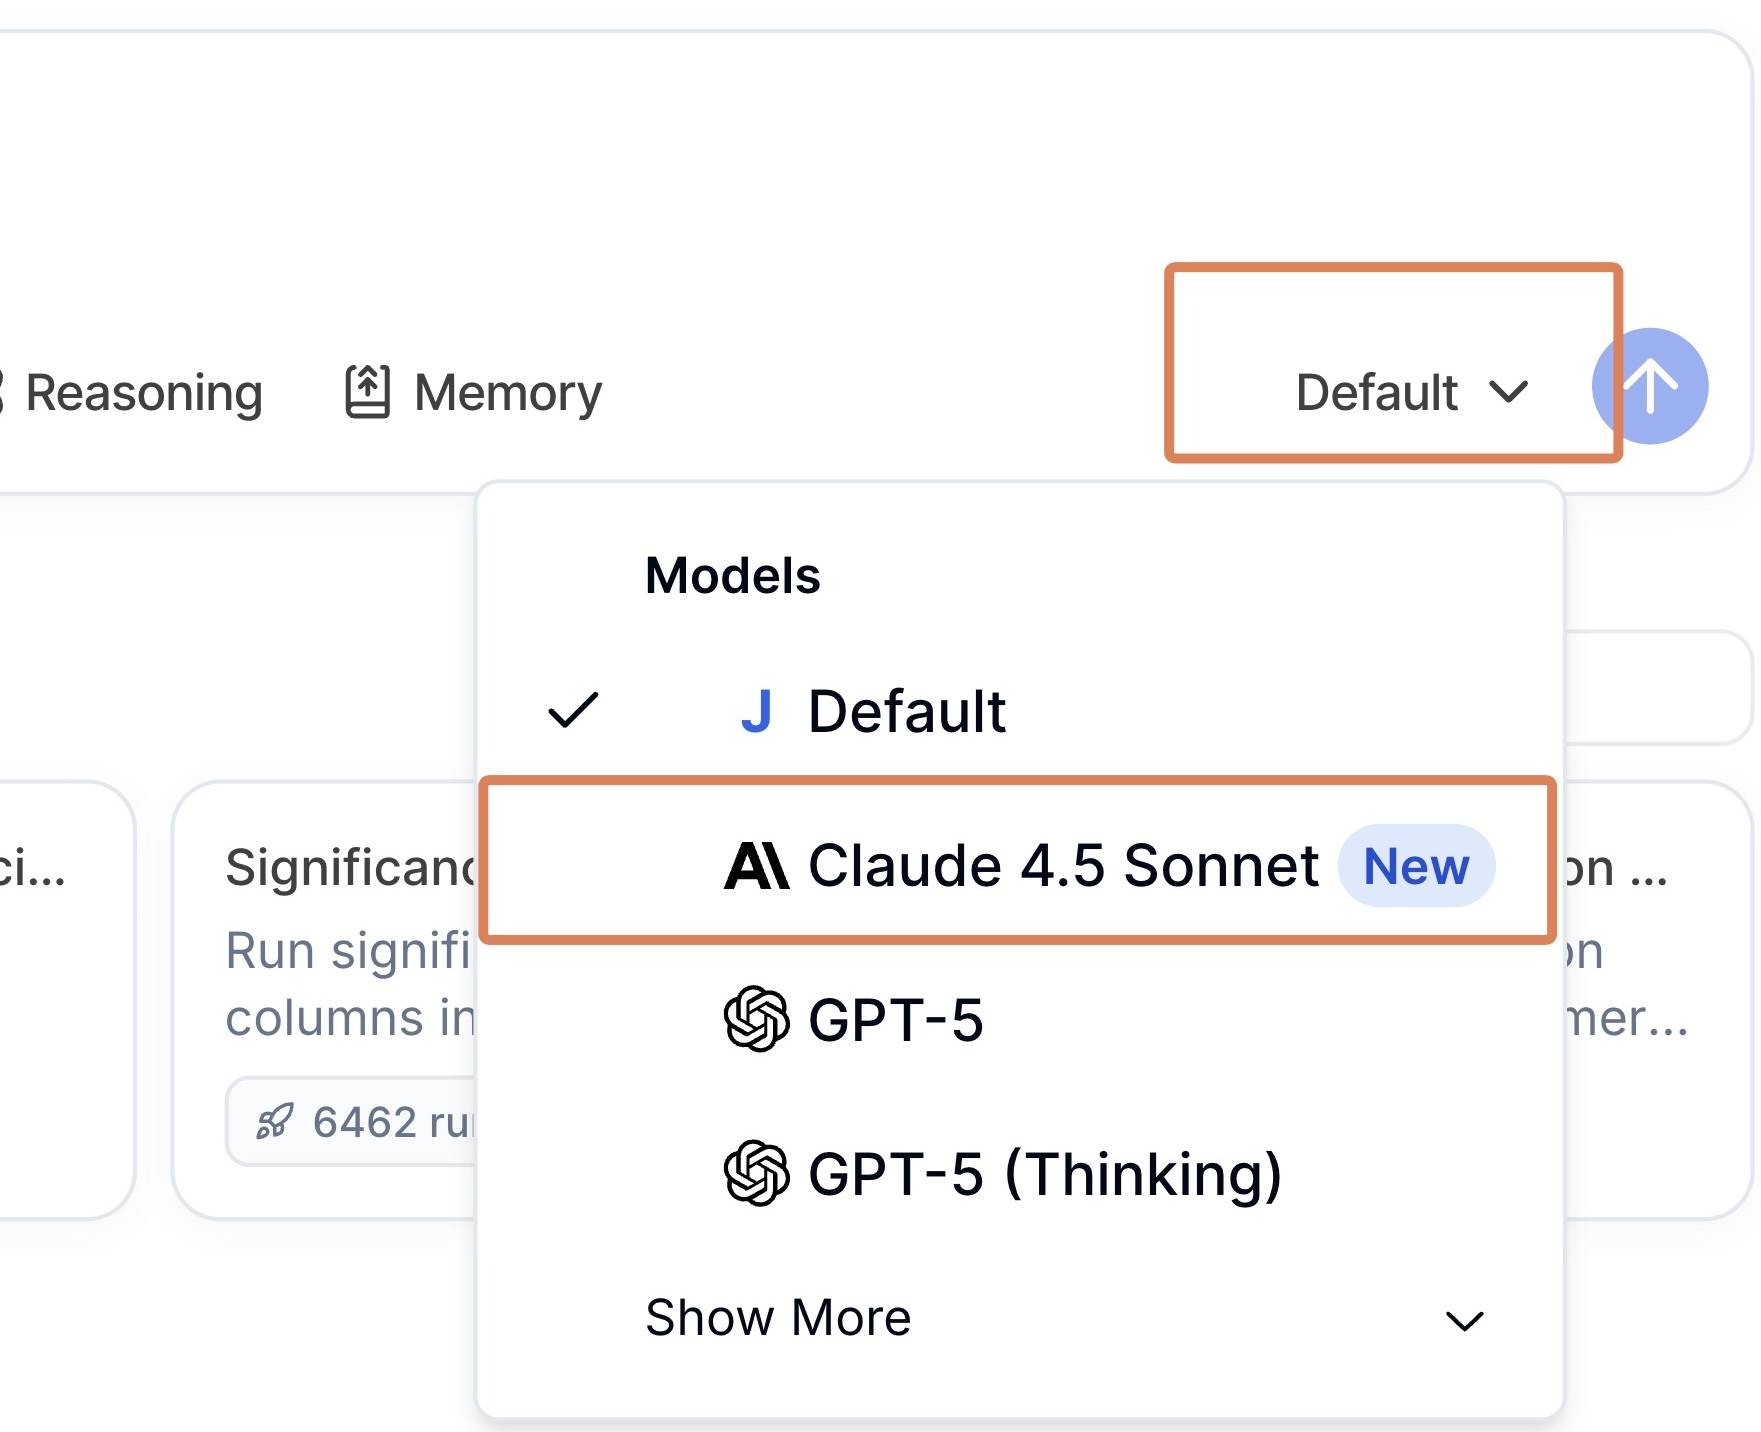
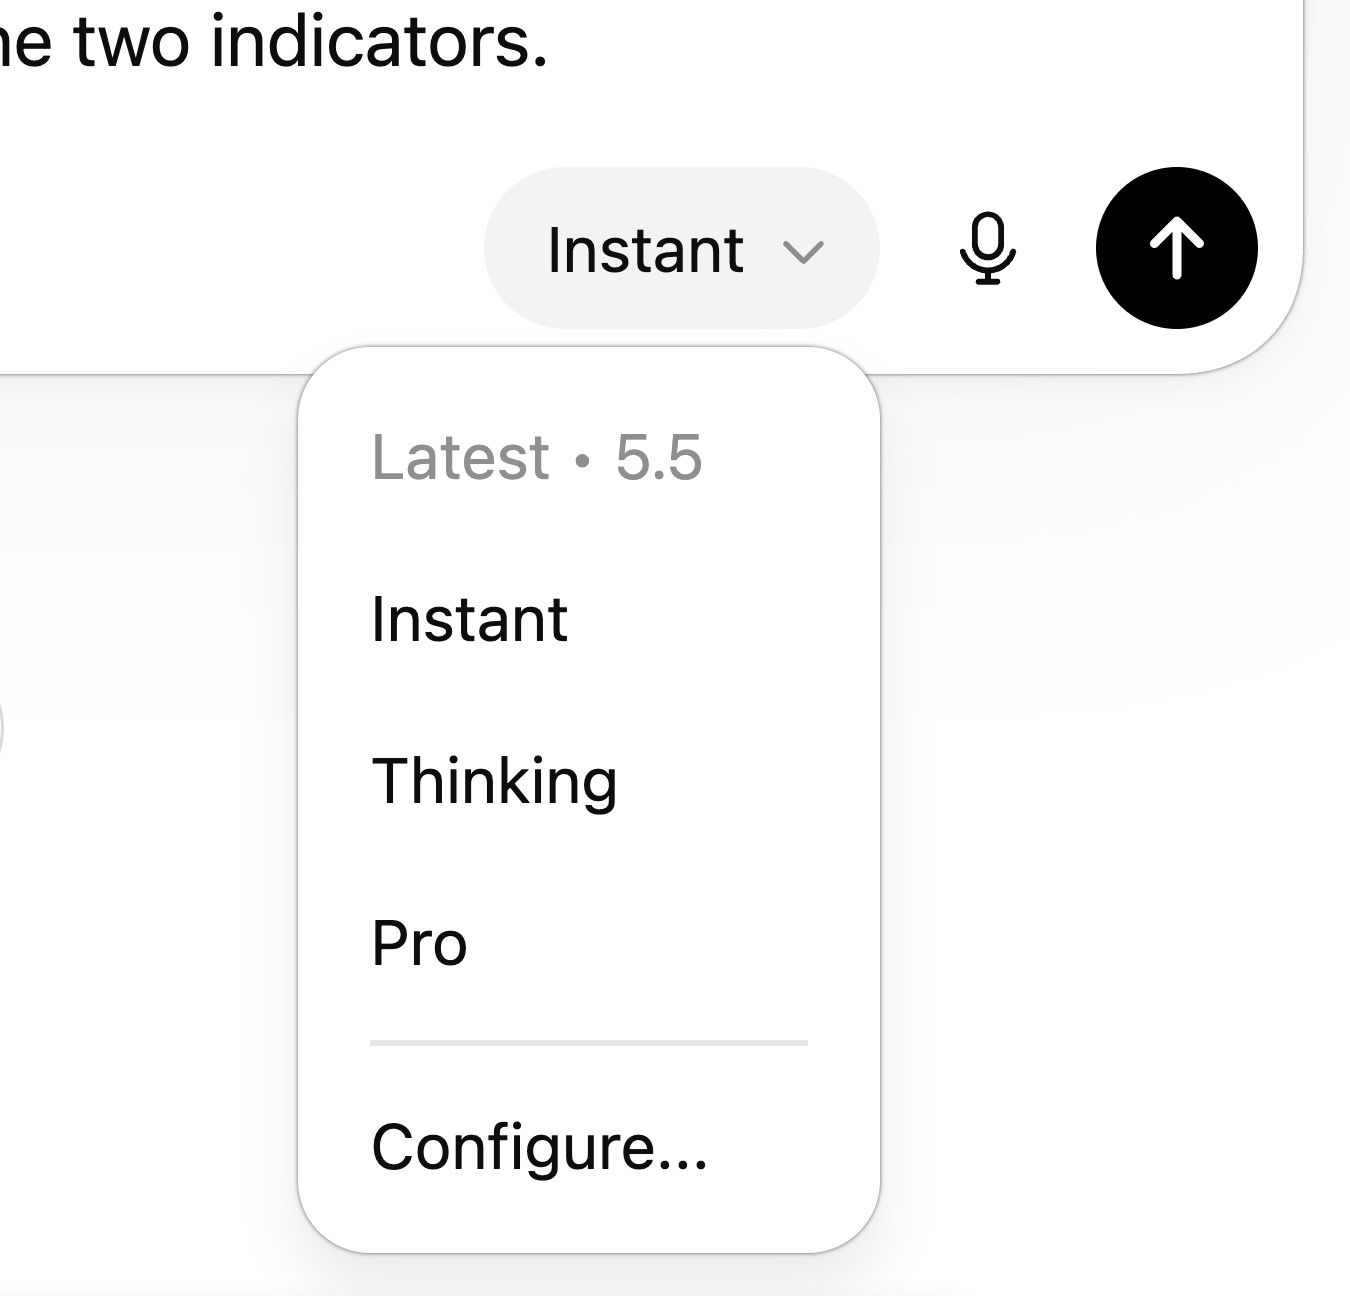
sdfsdf

diff --git a/week_02_workshop/week_02_workshop_instructions.html b/week_02_workshop/week_02_workshop_instructions.html
@@ -83,7 +83,7 @@ window.Quarto = {
   <li><a href="#part-1-general-setup-data-selection-all-students" id="toc-part-1-general-setup-data-selection-all-students" class="nav-link" data-scroll-target="#part-1-general-setup-data-selection-all-students">Part 1: General Setup &amp; Data Selection (All Students)</a></li>
   <li><a href="#part-2-tool-specific-instructions" id="toc-part-2-tool-specific-instructions" class="nav-link" data-scroll-target="#part-2-tool-specific-instructions">Part 2: Tool-Specific Instructions</a>
   <ul class="collapse">
-  <li><a href="#section-a-for-students-without-prior-coding-experience-using-julius" id="toc-section-a-for-students-without-prior-coding-experience-using-julius" class="nav-link" data-scroll-target="#section-a-for-students-without-prior-coding-experience-using-julius">Section A: For Students WITHOUT Prior Coding Experience (Using Julius)</a></li>
+  <li><a href="#section-a-for-students-without-prior-coding-experience-using-chatgpt" id="toc-section-a-for-students-without-prior-coding-experience-using-chatgpt" class="nav-link" data-scroll-target="#section-a-for-students-without-prior-coding-experience-using-chatgpt">Section A: For Students WITHOUT Prior Coding Experience (Using ChatGPT)</a></li>
   <li><a href="#section-b-for-students-with-r-coding-experience-using-cursor-with-r" id="toc-section-b-for-students-with-r-coding-experience-using-cursor-with-r" class="nav-link" data-scroll-target="#section-b-for-students-with-r-coding-experience-using-cursor-with-r">Section B: For Students WITH R Coding Experience (Using Cursor with R)</a></li>
   </ul></li>
   <li><a href="#part-3-submission" id="toc-part-3-submission" class="nav-link" data-scroll-target="#part-3-submission">Part 3: Submission</a></li>
@@ -144,7 +144,7 @@ window.Quarto = {
 <h2 class="anchored" data-anchor-id="tool-tracks">Tool Tracks</h2>
 <p>You will choose one of the following tools based on your coding experience:</p>
 <ul>
-<li><p><strong>Students WITHOUT significant coding experience:</strong> You will use <strong>Julius</strong>, a user-friendly AI data analysis tool with a chat interface.</p></li>
+<li><p><strong>Students WITHOUT significant coding experience:</strong> You will use <strong>ChatGPT</strong>, a user-friendly AI chat tool, with its data analysis capabilities.</p></li>
 <li><p><strong>Students WITH significant coding experience in R:</strong> You should use <strong>Cursor</strong>, an AI-powered code editor, with R.</p></li>
 <li><p><strong>If you finish your assigned tool track early, you are encouraged to try the other one!</strong></p></li>
 </ul>
@@ -174,73 +174,56 @@ window.Quarto = {
 <section id="part-2-tool-specific-instructions" class="level1">
 <h1>Part 2: Tool-Specific Instructions</h1>
 <p>Please follow the instructions for the tool assigned to your group.</p>
-<section id="section-a-for-students-without-prior-coding-experience-using-julius" class="level2">
-<h2 class="anchored" data-anchor-id="section-a-for-students-without-prior-coding-experience-using-julius">Section A: For Students WITHOUT Prior Coding Experience (Using Julius)</h2>
-<p>You will use Julius, an AI data analysis chat-based tool, to analyze your data and generate content for your report.</p>
+<section id="section-a-for-students-without-prior-coding-experience-using-chatgpt" class="level2">
+<h2 class="anchored" data-anchor-id="section-a-for-students-without-prior-coding-experience-using-chatgpt">Section A: For Students WITHOUT Prior Coding Experience (Using ChatGPT)</h2>
+<p>You will use ChatGPT, an AI chat-based tool, to analyze your data and generate content for your report.</p>
 <ol type="1">
-<li><p><strong>Setup Julius:</strong></p>
+<li><p><strong>Setup ChatGPT:</strong></p>
 <ul>
-<li><p>Go to <a href="https://julius.ai/" target="_blank">Julius.ai</a> and sign up. Feel free to skip the initial onboarding flow. You can usually skip it by going to this URL: <a href="https://julius.ai/chat" target="_blank">https://julius.ai/chat</a></p></li>
-<li><p>For a 2-week trial of premium features, at the top left of the page, click on the user profile dropdown menu and select “Account Settings”</p></li>
+<li><p>Go to <a href="https://chatgpt.com/" target="_blank">chatgpt.com</a> and sign in (or create a free account if you don’t already have one).</p></li>
+<li><p><strong>Select the thinking model:</strong> In the model selector, choose the <strong>thinking</strong> model. This model handles multi-step data analysis tasks more reliably than the instant model.</p></li>
 </ul>
-<p><img src="images/user_profile_dropdown.jpg" class="img-fluid" width="242"></p>
-<p>In the settings menu, click on <strong>Account</strong>, then under <strong>Institutional Codes</strong>, enter the code that will be provided by your instructor in class.</p>
-<p><img src="images/institutional_code.jpg" class="img-fluid" width="365"></p>
+<p><img src="images/change_ai_model.jpg" class="img-fluid" width="349"></p>
 <ul>
-<li>Please do not share this code with anyone outside of the class.</li>
+<li><strong>If you don’t have access to the thinking model:</strong> The thinking model usually requires a paid plan. If you don’t have access, share your email address with one of the instructors and we will add you to our workspace for one month so that you can complete this workshop.</li>
 </ul></li>
-<li><p><strong>Starting Your Analysis in Julius:</strong></p>
+<li><p><strong>Starting Your Analysis in ChatGPT:</strong></p>
 <ul>
-<li>Start a new Chat “thread” in Julius.</li>
-</ul>
-<p><img src="images/new_thread.jpg" class="img-fluid" width="245"></p>
-<ul>
-<li><p><strong>Select your tools:</strong></p>
-<ul>
-<li><strong>R for Code Language:</strong> Julius can use Python or R. At the top left of the window, select <strong>R</strong> since the GRAPH team is more familiar with R, and the instructions below are written for R.</li>
+<li>Start a new chat in ChatGPT.</li>
 </ul></li>
-</ul>
-<p><img src="images/change_code_language.jpg" class="img-fluid" width="292"></p>
+<li><p><strong>Chatting with ChatGPT:</strong></p>
 <ul>
-<li><strong>Claude 4.5 Sonnet for AI Model:</strong> It’s recommended to switch to the <strong>Claude 4.5 Sonnet</strong> model for potentially better results. The model selection is typically in a dropdown menu at the bottom right of the prompt input box.</li>
+<li><p>First, upload your two CSV files to the conversation. This ensures ChatGPT has access to your data when you give it instructions. You can drag and drop them in, or you can click on the attachment (paperclip or “+”) button near the chat input and select your two CSV files.</p></li>
+<li><p>Now we will write a prompt to ChatGPT to help us create a report on the relationship between two indicators. Edit the prompt below to include the names of your two indicators, then send it to ChatGPT. The parts in square brackets should be replaced with your actual indicator names.</p></li>
 </ul>
-<p><img src="images/change_ai_model.jpg" class="img-fluid" width="349"></p></li>
-<li><p><strong>Chatting with Julius:</strong></p>
-<ul>
-<li>First, upload your two CSV files to the conversation. This ensures Julius has access to your data when you give it instructions. You can drag and drop them in, of you can click on the plus button to the bottom left of the chat window and select “Upload file”.</li>
-</ul>
-<p><img src="images/upload_file.jpg" class="img-fluid" width="270"></p>
-<ul>
-<li>Now we will write a prompt to Julius to help us create a report on the relationship between two indicators. Edit the prompt below to include the names of your two indicators, then send it to Julius. The parts in square brackets should be replaced with your actual indicator names.</li>
-</ul>
-<pre><code>I am writing a report on the relationship between two indicators 
+<pre><code>I am writing a report on the relationship between two indicators
 
 1. [TYPE YOUR INDICATOR 1 NAME HERE]
 2. [TYPE YOUR INDICATOR 2 NAME HERE]
 
-Both datasets have been added. 
+Both datasets have been added.
 
 Run the following steps for the report:
-1. For each indicator, briefly view and print the data to understand it first. 
+1. For each indicator, briefly view and print the data to understand it first.
 2. Then subset the data to 2020.
-3. Create a world map for each indicator in 2020. Use ggplot2 and the maps package to create the plot. (Before making the map, check the data input to make sure it is in the correct format, with one row per country.)
+3. Create a world map for each indicator in 2020. (Before making the map, check the data input to make sure it is in the correct format, with one row per country.)
 4. Create a scatterplot showing the relationship between these two indicators in 2020.
 5. Provide a brief interpretation of the relationship between the two indicators.</code></pre></li>
 </ol>
 <ul>
-<li><p><strong>Review and Refine:</strong> Julius will show its steps, data, and plots. Work with it to refine the figures and text until you are happy with the output plots. For example, you can ask it to change the title of a plot, or to use a different color scheme.</p></li>
-<li><p>If the AI seems to be going off track or taking too long, look for a square “stop” button (often near the prompt input box) to interrupt it.</p></li>
+<li><p><strong>Review and Refine:</strong> ChatGPT will show its steps, data, and plots. Work with it to refine the figures and text until you are happy with the output plots. For example, you can ask it to change the title of a plot, or to use a different color scheme.</p></li>
+<li><p>If the AI seems to be going off track or taking too long, look for a “stop” button (often near the prompt input box) to interrupt it.</p></li>
 </ul>
 <ol start="4" type="1">
 <li><strong>Creating Your Report Document:</strong>
 <ul>
-<li><strong>Download Outputs:</strong> Download the individual plots (as images, e.g., PNG) or take screenshots of the plots that Julius generates. You can also copy any key text outputs, such as data summaries or interpretations.</li>
+<li><strong>Download Outputs:</strong> Download the individual plots (as images, e.g., PNG) or take screenshots of the plots that ChatGPT generates. You can also copy any key text outputs, such as data summaries or interpretations.</li>
 <li><strong>Create a DOCX/Google Docs file:</strong> Open a word processor (like Microsoft Word, Google Docs, or Pages) and create a new document.</li>
 <li><strong>Assemble report:</strong>
 <ul>
 <li>Add a title, your name, and the date.</li>
 <li>Insert the plots you downloaded.</li>
-<li>Paste in the relevant text outputs from Julius.</li>
+<li>Paste in the relevant text outputs from ChatGPT.</li>
 <li>Organize this content into a clean and readable report.</li>
 </ul></li>
 </ul></li>
@@ -261,7 +244,7 @@ Run the following steps for the report:
 <li><p><strong>Setup Cursor:</strong></p>
 <ul>
 <li><p>You’ll need to set up Cursor first, using the instructions.</p></li>
-<li><p>Note: Users in a few countries appear unable to access Cursor at the moment. You may need to use a VPN if this is the case. Or switch to the Julius track.</p></li>
+<li><p>Note: Users in a few countries appear unable to access Cursor at the moment. You may need to use a VPN if this is the case. Or switch to the ChatGPT track.</p></li>
 <li><p><strong>Watch our setup video before you begin:</strong> <a href="https://thegraphcourses.org/courses/aiw-2025-q2/topics/ai-automated-data-analysis-with-r-and-cursor-for-r-users-only/" target="_blank">AI Automated Data Analysis with R and Cursor (for R users only)</a></p></li>
 </ul></li>
 <li><p><strong>Project folder:</strong></p>